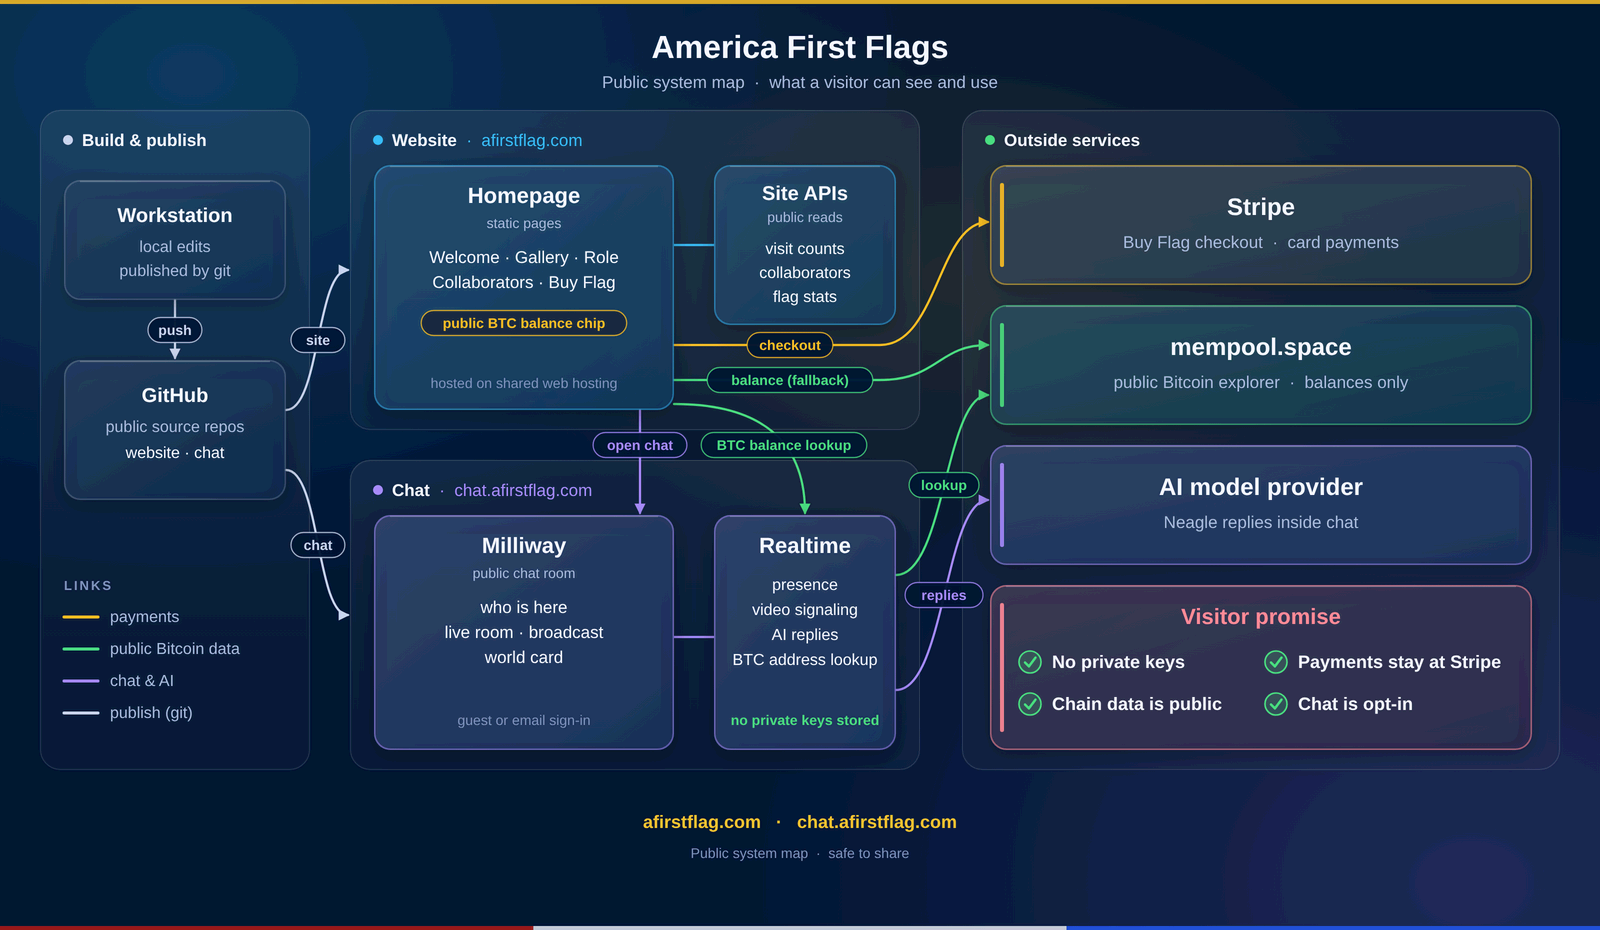
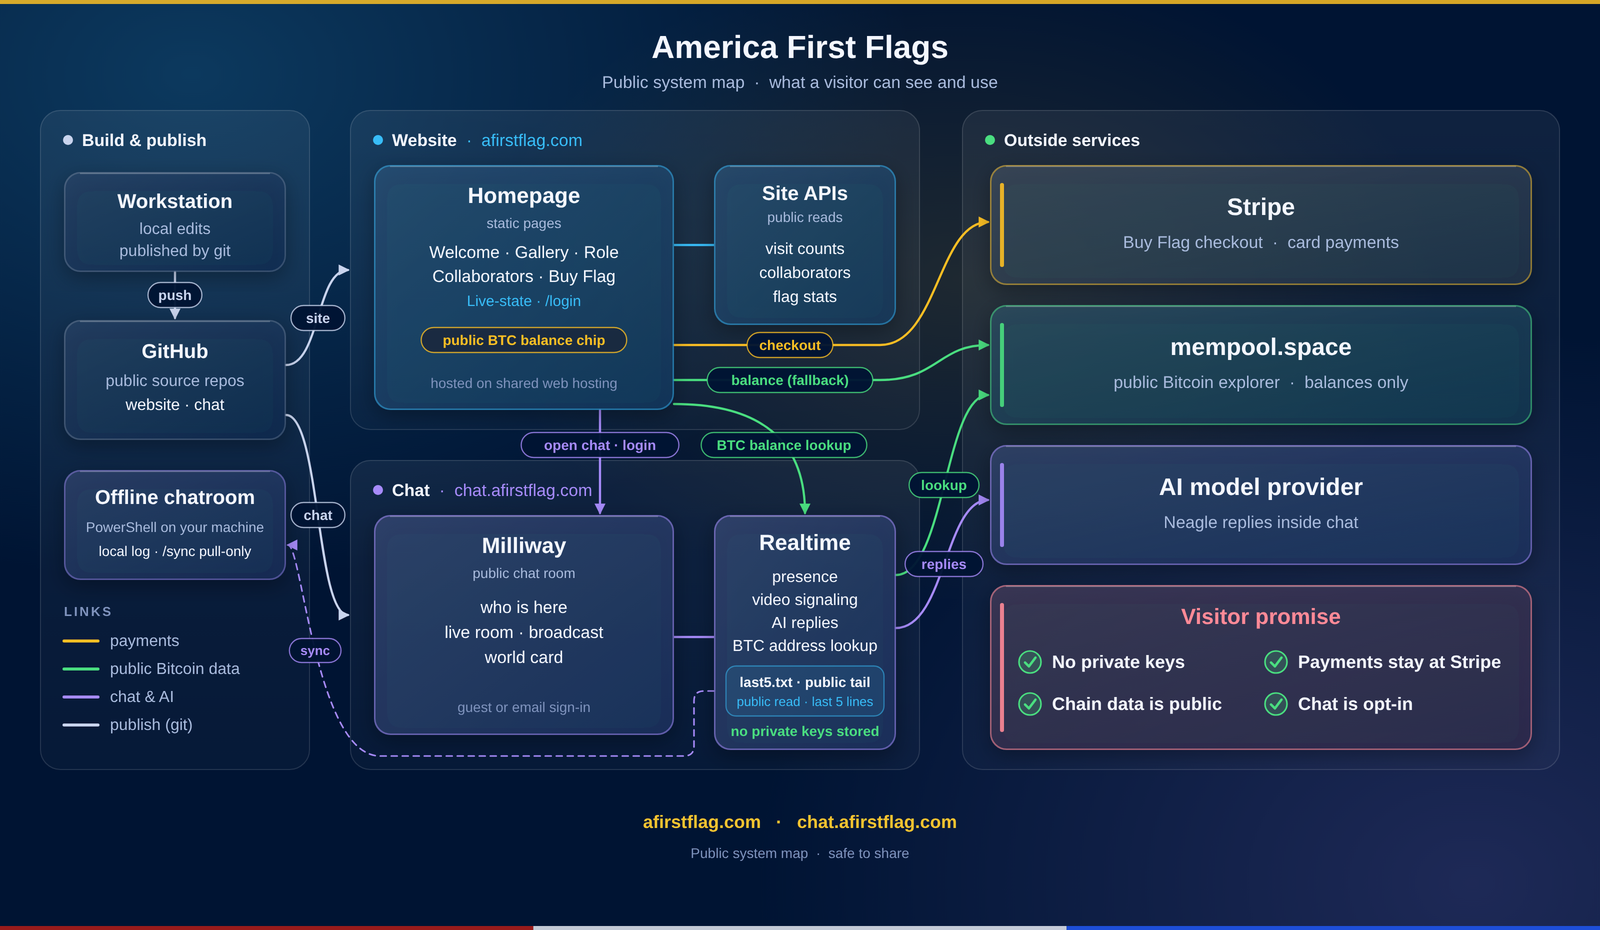
CHG-045 updated arch

diff --git a/index.html b/index.html
@@ -1469,7 +1469,7 @@
         <a class="how-map" href="/images/architecture-public.png" target="_blank" rel="noopener">
           <picture>
             <source srcset="/images/architecture-public.webp" type="image/webp">
-            <img src="/images/architecture-public.png" width="1600" height="930" loading="lazy" decoding="async" alt="Public system map of America First Flags. The website, afirstflag.com, serves the homepage sections (welcome, gallery, role, collaborators, and Buy Flag, plus a public BTC balance chip) and site APIs for visit counts, collaborators, and flag stats. The chat, chat.afirstflag.com, is the Milliway public chat room with realtime presence, video signaling, AI replies, and BTC address lookup, and stores no private keys. Outside services: Stripe for Buy Flag checkout and card payments, mempool.space as the public Bitcoin explorer for balances only, and an AI model provider for Neagle replies inside chat. Both sites are published from a workstation through public GitHub repos. Visitor promise: no private keys, payments stay at Stripe, chain data is public, chat is opt-in.">
+            <img src="/images/architecture-public.png" width="1600" height="930" loading="lazy" decoding="async" alt="Public system map of America First Flags. The website, afirstflag.com, serves the homepage sections (welcome, gallery, role, collaborators, and Buy Flag, plus a public BTC balance chip) and site APIs for visit counts, collaborators, and flag stats. The chat, chat.afirstflag.com, is the Milliway public chat room with realtime presence, video signaling, AI replies, and BTC address lookup, and stores no private keys. Outside services: Stripe for Buy Flag checkout and card payments, mempool.space as the public Bitcoin explorer for balances only, and an AI model provider for Neagle replies inside chat. Both sites are published from a workstation through public GitHub repos. Visitor promise: no private keys, payments stay at Stripe, chain data is public, chat is opt-in. The homepage Live-state panel has a /login command that opens chat sign-in. The chat publishes a public tail of the last 5 public chat lines (last5.txt), and an offline chatroom on the owner's machine pulls that tail with /sync.">
           </picture>
         </a>
       </div>
